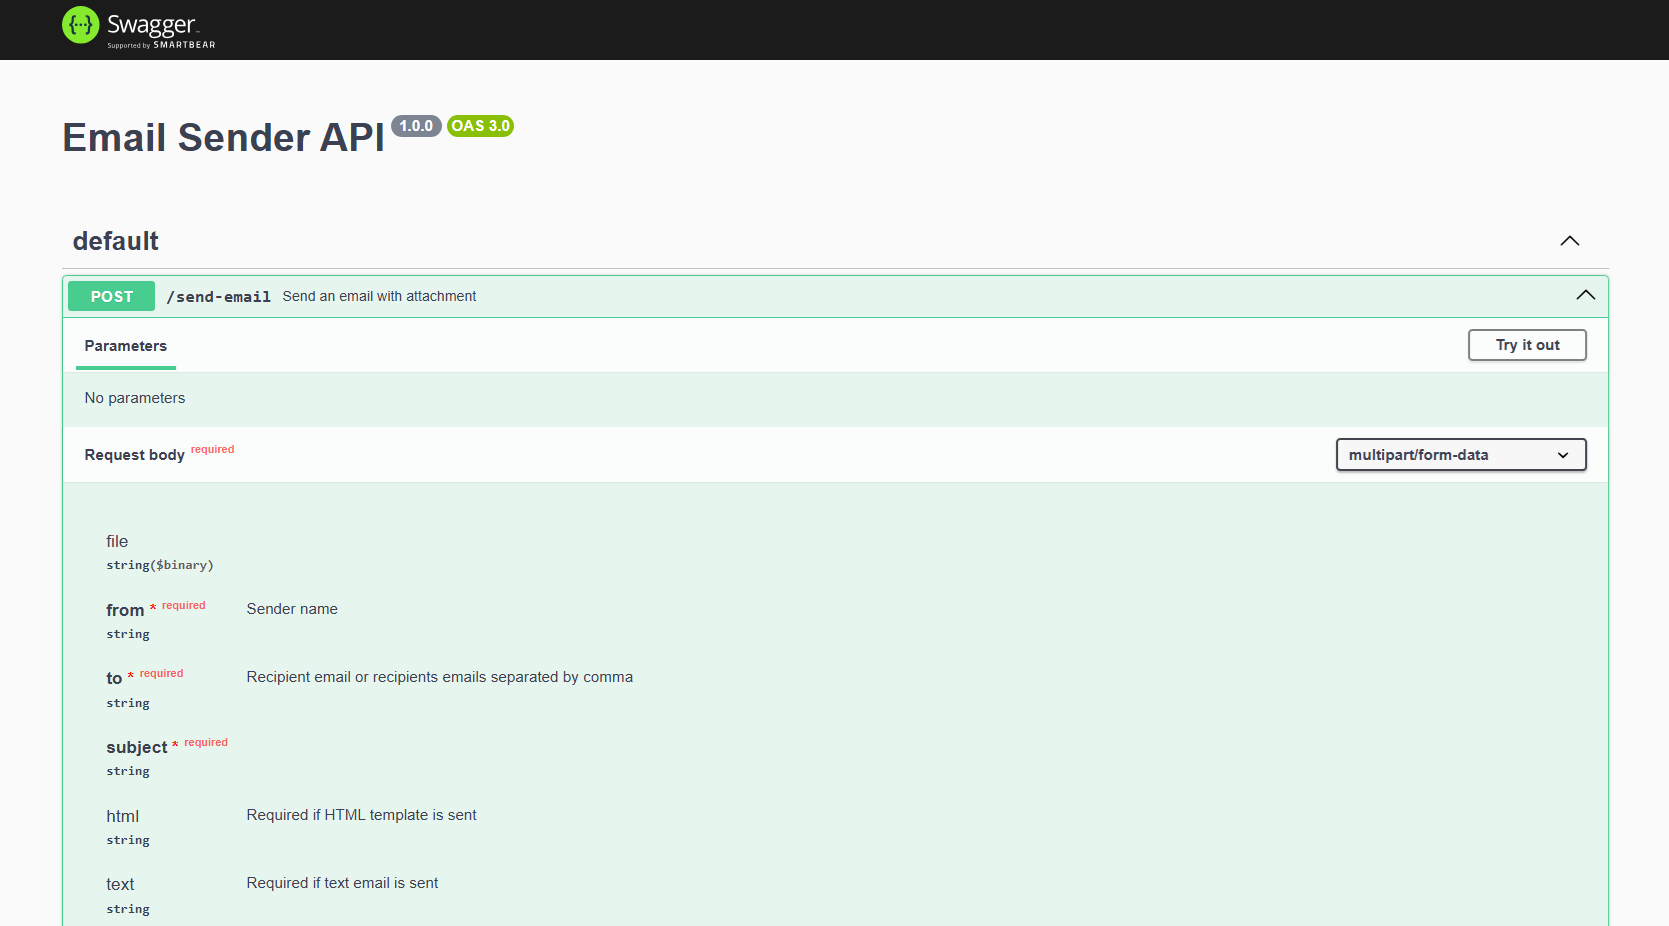
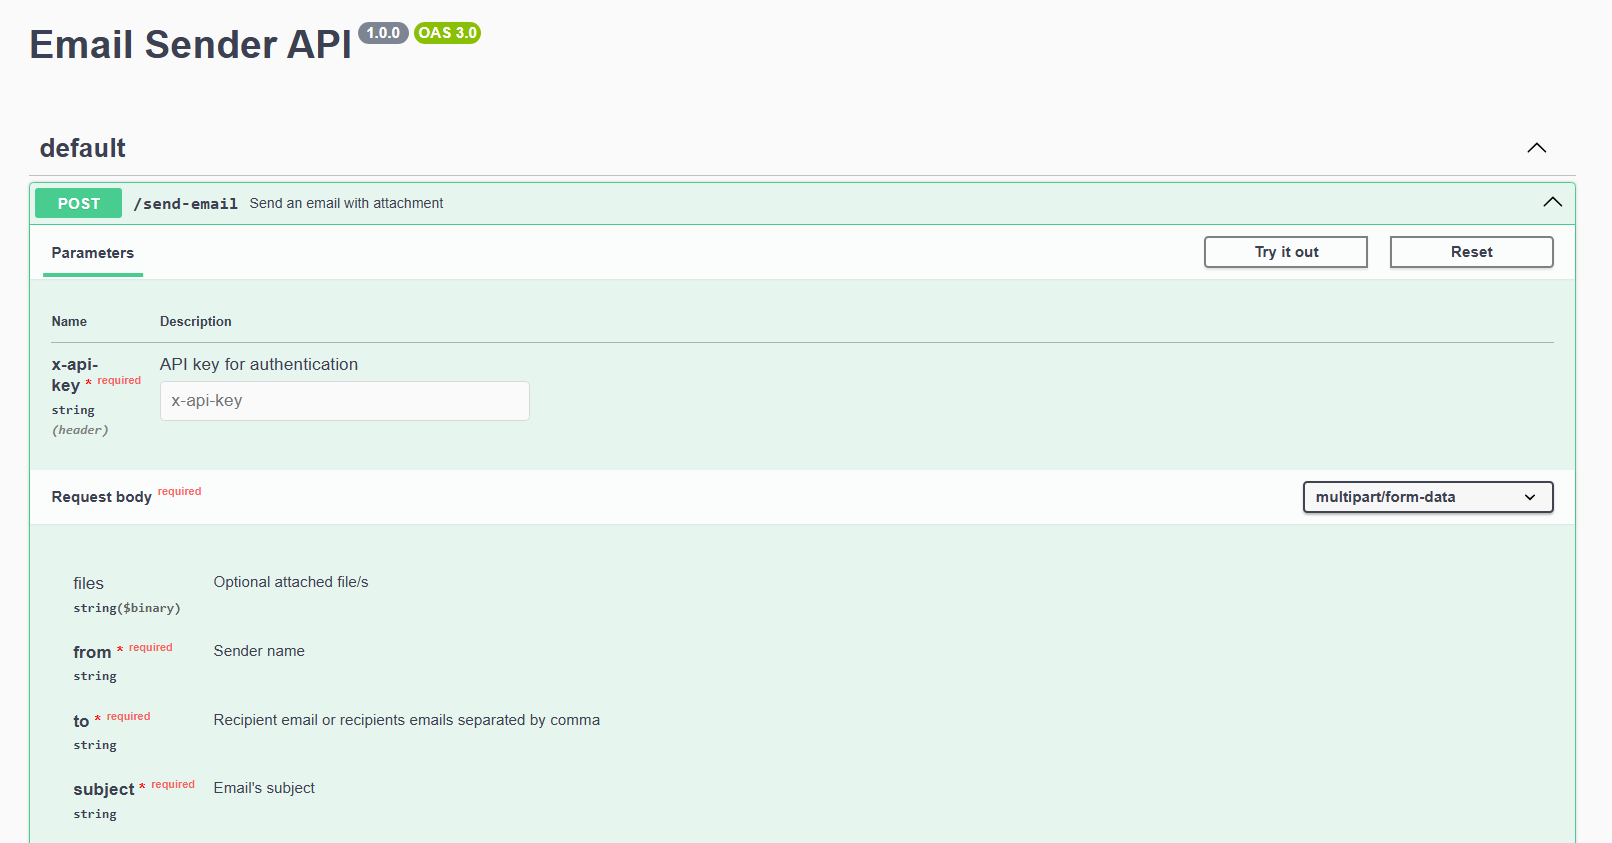
docs: update README.md and api schemas

diff --git a/README.md b/README.md
@@ -7,6 +7,8 @@ A lightweight API for sending emails in plain text or HTML templates, with optio
 - Send emails in plain text or HTML format
 - Attach files
 - CORS and API key protection
+- Rate limit protection
+- Limit file size and number of files
 - Ready to run with Docker or locally
 
 ## Tech Stack
@@ -28,39 +30,57 @@ A lightweight API for sending emails in plain text or HTML templates, with optio
 ## Instructions
 
 
-### 1. Create .env file and set the following variables
+### 1. Create .env file and set the following variables and set the corresponding values 
 
 ```
 ENVIROMENT=local
 PORT=9000
 LOG_LEVEL=debug
+
 SMTP_HOST=your.mail.host
 SMTP_PORT=000
 SMTP_EMAIL=example@mail.com
 SMTP_PASS=pass
+
 API_KEYS="api_key"
 ALLOWED_CORS_DOMAINS="http://localhost:9000,http://otherdomain"
+
+RATE_LIMIT_WINDOW_MS=900000
+RATE_LIMIT_MAX=100
+
+FILE_SIZE=5242880
+FILES_LIMIT=5
 ```
+
+#### 1.1 Rate limit variables
+
+- `RATE_LIMIT_WINDOW_MS`: Time window in milliseconds for rate limit
+- `RATE_LIMIT_MAX`: Maximum number of requests allowed in the time window
+
+#### 1.2 File upload variables
+
+- `FILE_SIZE`: Maximum file size in bytes
+- `FILES_LIMIT`: Maximum number of files allowed
 
 ### 2. Run the app
 
 #### Local
 
-```
+```bash
 npm i
 ```
 
-```
+```bash
 npm run dev
 ```
 
 #### Docker
 
-```
+```bash
 docker compose build
 ```
 
-```
+```bash
 docker compose up
 ```
 
@@ -77,3 +97,43 @@ API documentation is served at:
 http://localhost:9000/api-docs
 
 ![API Docs](api-docs.png)
+
+## Example requests
+
+### 1. Send email with text
+
+```bash
+curl -X POST http://localhost:9000/send-email \
+  -H "Content-Type: multipart/form-data" \
+  -H "X-Api-Key: api_key" \
+  -F "from=Test" \
+  -F "to=test@example.com" \
+  -F "subject=Test" \
+  -F "text=Hello"
+```
+
+### 2. Send email with HTML template
+
+```bash
+curl -X POST http://localhost:9000/send-email \
+  -H "Content-Type: multipart/form-data" \
+  -H "X-Api-Key: api_key" \
+  -F "from=Test" \
+  -F "to=test@example.com" \
+  -F "subject=Test" \
+  -F "html=<div>Test</div>"
+```
+
+### 3. Send email with files attachment
+
+```bash
+curl -X POST http://localhost:9000/send-email \
+  -H "Content-Type: multipart/form-data" \
+  -H "X-Api-Key: api_key" \
+  -F "from=Test" \
+  -F "to=test@example.com" \
+  -F "subject=Test" \
+  -F "text=Hello" \
+  -F "files=@/path/to/file1" \
+  -F "files=@/path/to/file2"
+```
